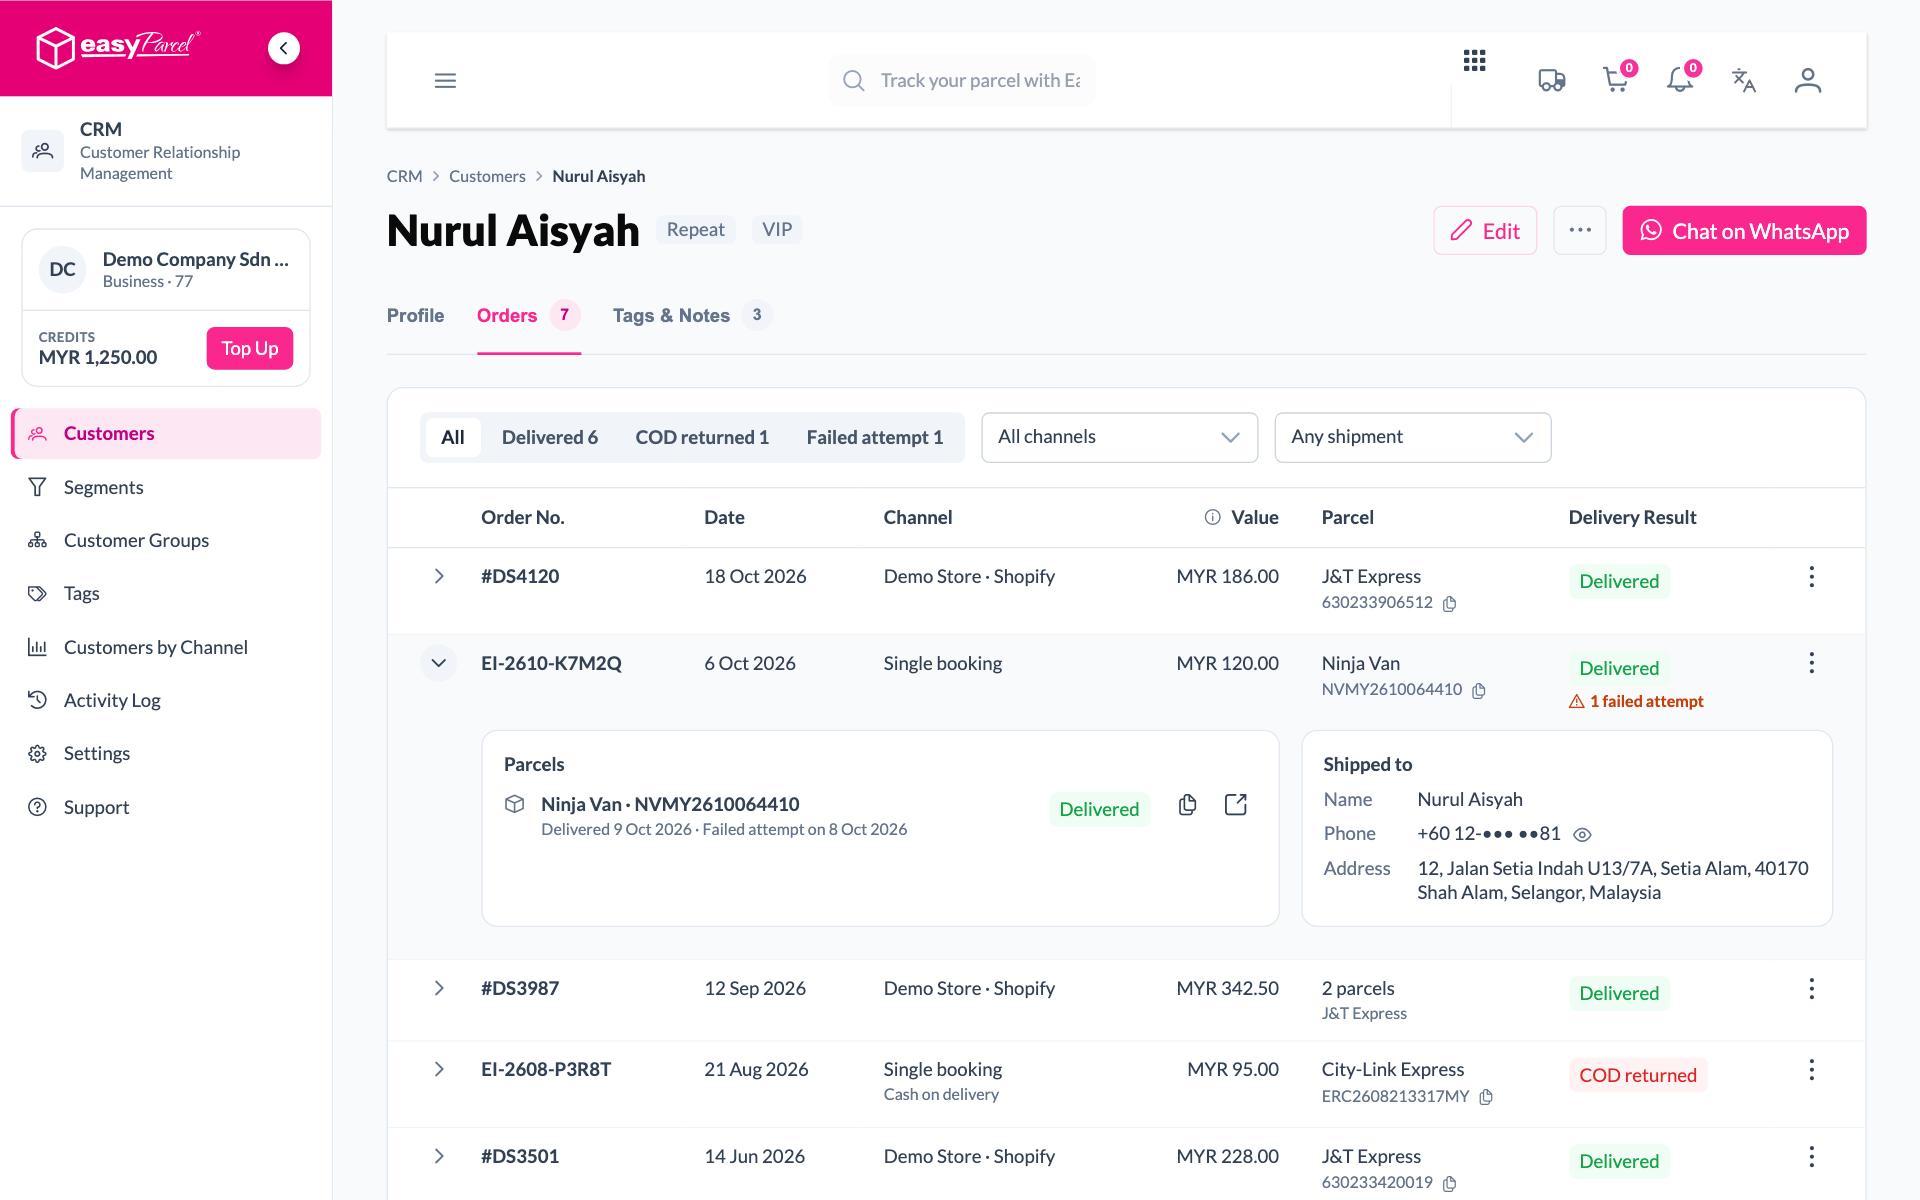
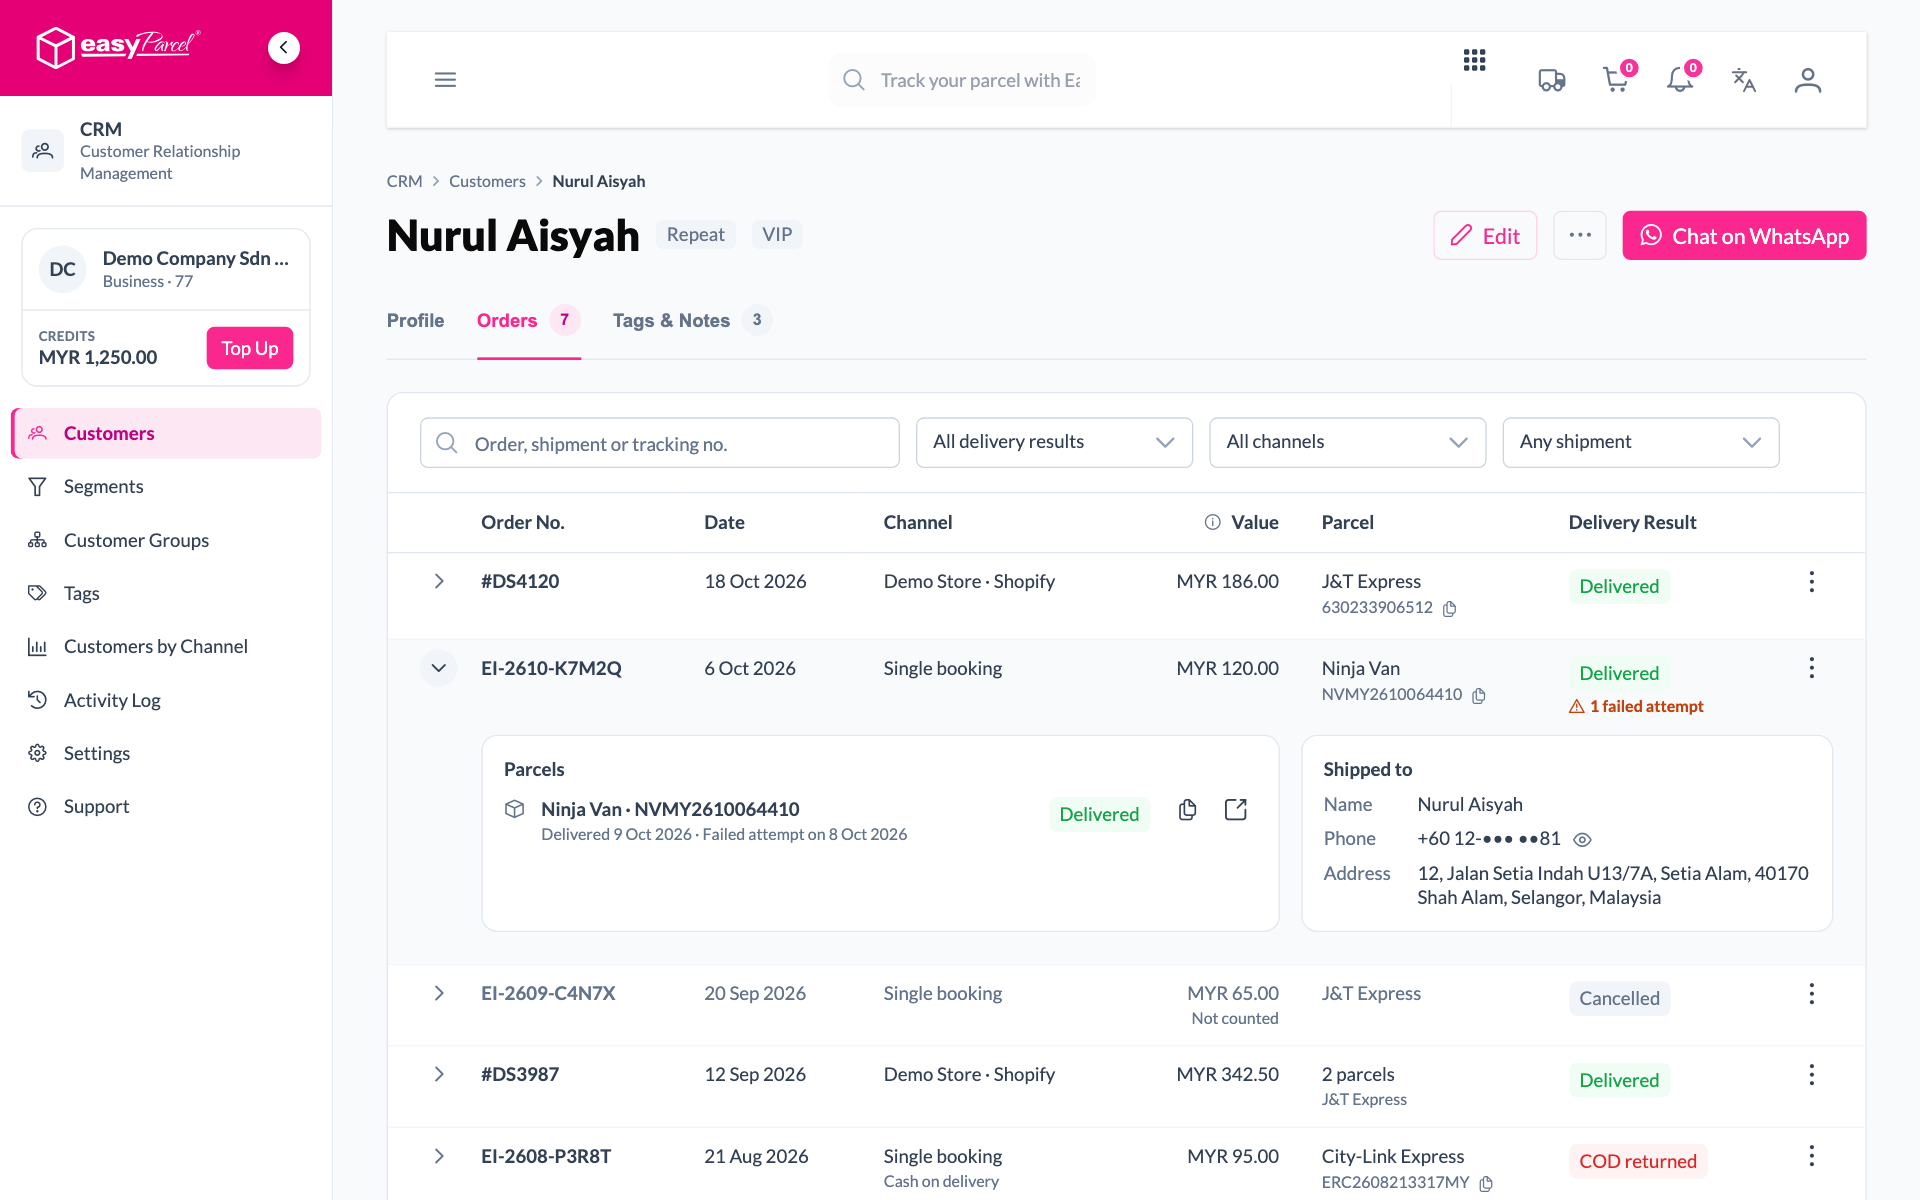
Update the CRM user guide: cancelled orders, order search and the Delivery result filter

diff --git a/CustomerPlus/CRM/Guideline.md b/CustomerPlus/CRM/Guideline.md
@@ -92,7 +92,7 @@ Click **See Coverage** to see, for each store and booking method, how many of it
 
 ![Coverage](images/crm-07-coverage.png)
 
-> Your own sender, pickup and return addresses, and your account's own phone and email, are never counted as a customer.
+> Your account's own phone and email, your saved sender, pickup and return addresses, and your team members' phones are never counted as a customer. Everyone else you ship to is, even if they also send parcels with you.
 
 ### Search
 
@@ -111,7 +111,7 @@ Click **Filters**, choose what you need, then click **Apply Filters**. **Reset A
 | **Last order** | Who last ordered within 30, 90 or 180 days, more than 180 days ago, or in a custom range |
 | **Orders** / **Spend** | With a number of orders, or a total spend, between a minimum and a maximum |
 | **Channel** | Who ordered from one store or booking method, or whom you **added** or **imported** |
-| **Latest delivery result** | Whose latest parcel was Delivered, In transit, Returned or COD returned, or who has no parcel yet |
+| **Latest delivery result** | Whose latest parcel was Delivered, In transit, Returned, COD returned or Cancelled, or who has no parcel yet |
 | **Tags** | With **any** of the tags you pick |
 | **Without tags** | Without any of the tags you pick |
 | **Country**, **State**, **Postcode** | By their main address. Postcode matches the start, so `119` finds `11950`. Separate several postcodes with commas. |
@@ -174,17 +174,23 @@ At the top:
 | **History since** | The earliest shipment CRM has for your account |
 | **Added** | How the customer came in: from your orders, your Address Book, by hand or from an import |
 | **Contact details** | Every phone, email and address they have used, main one first, with when each was last used. Use the **copy** icon to copy one, or the **WhatsApp** icon beside a phone to chat. |
-| **Orders, Spend, Average order, First order, Last order** | Their key numbers |
-| **Delivery results** | Their parcels by result: **Delivered**, **In transit**, **Returned** and **COD returned**, plus how many parcels had a **failed attempt** |
+| **Orders, Spend, Average order, First order, Last order** | Their key numbers. Cancelled orders aren't counted; when a customer has some, **Orders** says how many it leaves out, for example *Excludes 1 cancelled order*. |
+| **Delivery results** | Their parcels by result: **Delivered**, **In transit**, **Returned**, **COD returned** and **Cancelled**, plus how many parcels had a **failed attempt** |
 
 > **Phones can't be edited.** A phone is what identifies a customer. If someone changes their number, add a customer with the new number, then merge the two.
 
 ### Orders tab
 
-Every order this customer has made, newest first. Filter by delivery result, channel or whether the order has a shipment yet. Click **>** on an order to see its parcels: the courier, tracking number, delivery result, any failed attempts, and the name, phone and address it was shipped to.
+Every order this customer has made, newest first, cancelled ones included. Click **>** on an order to see its parcels: the courier, tracking number, delivery result, any failed attempts, and the name, phone and address it was shipped to.
+
+- **Search:** type part of an **order number**, **shipment number** (`ES-…`) or **tracking number** to find an order.
+- **Delivery result:** show only the orders with a Delivered, In transit, Returned, COD returned or Cancelled parcel, or a failed attempt. Each choice shows how many orders it has.
+- **Channel** and **Shipment:** show only one store or booking method, or only orders that have (or don't have yet) a shipment.
+- When nothing matches, **Clear Filters** empties the search and the filters together.
 
 ![Orders, with one order opened](images/crm-15-orders.png)
 
+- A **cancelled** order says **Not counted** under its value and **Cancelled** as its delivery result. It doesn't add to the customer's orders or spend.
 - A **failed attempt** is a delivery try that didn't reach the customer, for example nobody was home. The parcel may still be delivered later, so it is shown beside the result.
 - A few couriers don't report failed attempts. Their parcels say **Not reported**.
 - **Cash on delivery** is shown under the channel for COD parcels.
@@ -484,7 +490,7 @@ CRM matches everything **by phone number**: one phone belongs to one customer in
 | Source | What it adds |
 |---|---|
 | **Address Book** | Your saved receivers, with their names, phones, emails, addresses and labels. A saved receiver who hasn't ordered yet is marked **No orders yet**. |
-| **Shipments** | Every parcel you book: single bookings, bulk uploads and bookings from your apps. Each brings the receiver's details, the courier, the delivery result and any failed attempts. |
+| **Shipments** | Every parcel you book: single bookings, bulk uploads and bookings from your apps, cancelled ones included. Each brings the receiver's details, the courier, the delivery result and any failed attempts. |
 | **Store orders** | Orders from the stores you connected in **Imported Orders**, such as Shopify or Shopee, with each order's grand total. |
 | **Customers you add** | Customers you add by hand or import from a file. They're marked **Added by hand** or **Imported**, and **No orders yet** until they buy or you ship to them. |
 
@@ -493,7 +499,7 @@ CRM matches everything **by phone number**: one phone belongs to one customer in
 - **Orders:** one order is one sale. A store order counts once however many parcels it took. A booking with no store order is one order.
 - **Spend:** a store order adds its **grand total**. A booking adds the **declared parcel value as entered**. Only orders in your account's currency add to spend; orders in other currencies still count as orders.
 - **Delivery results** count **parcels**, not orders.
-- A cancelled store order stays in the customer's history but isn't counted.
+- A **cancelled** order, whether a store order or a booking, stays in the customer's history marked **Cancelled**, but isn't counted in orders or spend. A cancelled booking's parcel counts as **Cancelled** in delivery results. Someone whose only booking was cancelled is still in your list, with **Cancelled** as their latest delivery result.
 
 ---
 
@@ -554,6 +560,12 @@ Split it: **⋯ → Split Customer**. If they share one phone, it stays one cust
 
 **One person has two profiles.**
 Merge them: **⋯ → Merge**.
+
+**I cancelled a booking. Why is it still on the customer's profile?**
+A cancelled booking stays in their history, marked **Cancelled**, so you can see it happened. It isn't counted in their orders or spend, and **Orders** on the profile says how many cancelled orders it leaves out. To see only those, pick **Cancelled** in the Orders tab's **Delivery result** filter.
+
+**Someone I ship to also sends parcels with me. Are they a customer?**
+Yes. Everyone you ship to is a customer. Only your account's own phone and email, your saved sender, pickup and return addresses, and your team members' phones are left out.
 
 **The spend doesn't match my store.**
 For a booking, CRM adds the declared parcel value as you entered it, which may be a placeholder. For a store order it adds the grand total. Only orders in your account's currency add to spend.
